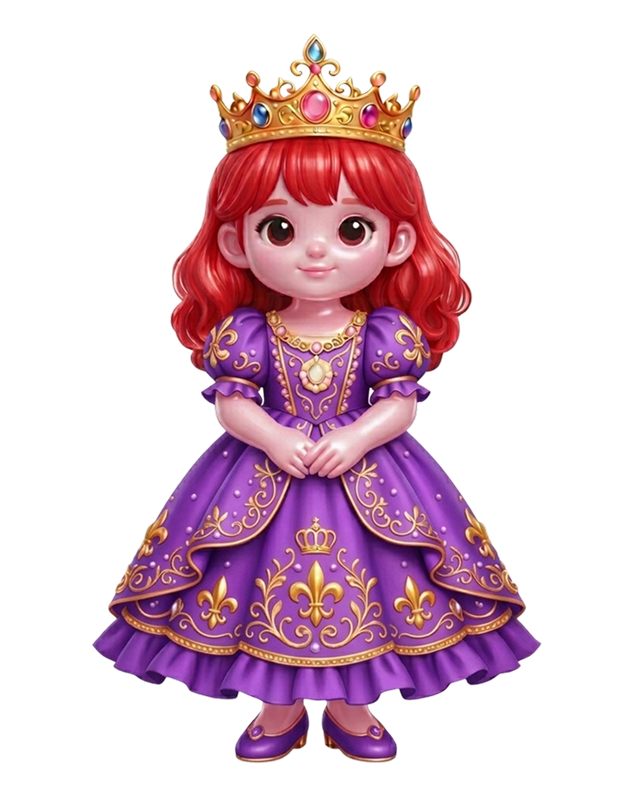
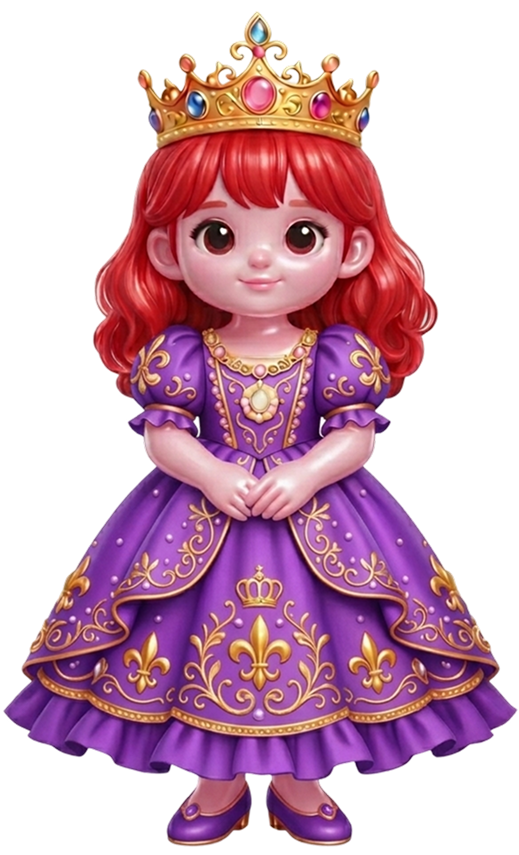
character images updated and sizes in ui updated

diff --git a/lib/features/parent/dashboard/presentation/widgets/children_row_widget.dart b/lib/features/parent/dashboard/presentation/widgets/children_row_widget.dart
@@ -25,8 +25,10 @@ class ChildrenRow extends StatelessWidget {
     final double selectedLeft = (w - selectedSize) / 2;
 
     final renderOrder = [
-      ...List.generate(children.length, (i) => i)
-          .where((i) => i != selectedIdx),
+      ...List.generate(
+        children.length,
+        (i) => i,
+      ).where((i) => i != selectedIdx),
       selectedIdx,
     ];
 
@@ -43,22 +45,38 @@ class ChildrenRow extends StatelessWidget {
           double left;
           double top;
           double size;
+          bool _isDragon(String path) => path.contains('baby_dragon');
 
           if (isSelected) {
-            left = selectedLeft;
-            top = 0;
-            size = selectedSize;
+            size = _isDragon(child.imagePath)
+                ? selectedSize * 0.62
+                : selectedSize;
+            top = _isDragon(child.imagePath) ? (selectedSize - size) / 2 : 0;
+            left = _isDragon(child.imagePath)
+                ? selectedLeft + (selectedSize - size) / 2
+                : selectedLeft;
           } else {
-            size = unselectedSize;
+            size = _isDragon(child.imagePath)
+                ? unselectedSize * 0.62
+                : unselectedSize;
             final double step = unselectedSize * 0.35;
             if (diff < 0) {
-              left = selectedLeft + (diff * step);
+              left =
+                  selectedLeft +
+                  (diff * step) -
+                  (_isDragon(child.imagePath) ? -30 : 20);
             } else {
-              left = selectedLeft + selectedSize - unselectedSize + (diff * step);
+              left =
+                  selectedLeft +
+                  selectedSize -
+                  unselectedSize +
+                  (diff * step) +
+                  (_isDragon(child.imagePath) ? 40 : 10);
             }
-            top = selectedSize - unselectedSize;
+            top = _isDragon(child.imagePath)
+                ? selectedSize - unselectedSize * 0.9
+                : selectedSize - unselectedSize;
           }
-
           return AnimatedPositioned(
             key: ValueKey('child_$index'),
             duration: const Duration(milliseconds: 300),
@@ -82,10 +100,7 @@ class ChildrenRow extends StatelessWidget {
                 child: AnimatedOpacity(
                   duration: const Duration(milliseconds: 250),
                   opacity: isSelected ? 1.0 : 0.45,
-                  child: Image.asset(
-                    child.imagePath,
-                    fit: BoxFit.contain,
-                  ),
+                  child: Image.asset(child.imagePath, fit: BoxFit.contain),
                 ),
               ),
             ),

diff --git a/lib/features/auth/bloc/auth_states.dart b/lib/features/auth/bloc/auth_states.dart
@@ -6,21 +6,25 @@ const List<CharacterModel> kDefaultCharacters = [
     name: 'The Curious\nPrince Explorer',
     speciality: 'Brave and\nadventurous',
     imagePath: 'assets/png/prince_character.png',
+    avatarImage: 'assets/png/prince_avatar.png'
   ),
   CharacterModel(
     name: 'The Kind\nPrincess',
     speciality: 'Kind and\nthoughtful',
     imagePath: 'assets/png/princes_character.png',
+    avatarImage: 'assets/png/princess_avatar.png'
   ),
   CharacterModel(
     name: 'The Brave\nKnight',
     speciality: 'Strong and\ncourageous',
     imagePath: 'assets/png/knight_character.png',
+    avatarImage: 'assets/png/knight_avatar.png'
   ),
   CharacterModel(
     name: 'The Friendly\nDragon',
     speciality: 'Playful and\nnaughty',
     imagePath: 'assets/png/baby_dragon_character.png',
+    avatarImage: 'assets/png/baby_dragon_avatar.png'
   ),
 ];
 

diff --git a/lib/features/auth/presentation/widgets/characters_row_widget.dart b/lib/features/auth/presentation/widgets/characters_row_widget.dart
@@ -22,9 +22,9 @@ class CharactersRowWidget extends StatelessWidget {
     if (characters.isEmpty) return const SizedBox();
 
     final double w = availableWidth;
-    final double selectedSize = w * 1;
-    final double unselectedSize = w * 0.85;
-    final double totalHeight = selectedSize*0.92;
+    final double selectedSize = w * 0.8;
+    final double unselectedSize = w * 0.7;
+    final double totalHeight = selectedSize*0.9;
     final double selectedLeft = (w - selectedSize) / 2;
 
     final renderOrder = [
@@ -102,7 +102,7 @@ class CharactersRowWidget extends StatelessWidget {
             }).toList(),
           ),
         ),
-        const SizedBox(height: 16),
+        const SizedBox(height: 40),
         AnimatedSwitcher(
           duration: const Duration(milliseconds: 250),
           child: HeadingText(

diff --git a/lib/features/auth/presentation/views/kingdom_ready/kingdon_is_ready_view.dart b/lib/features/auth/presentation/views/kingdom_ready/kingdon_is_ready_view.dart
@@ -83,16 +83,18 @@ class KingdonIsReadyView extends StatelessWidget {
 
                 BlocBuilder<AuthBloc, AuthStates>(
                   builder: (context, state) {
+                    final imageHeight = state.selectedCharacter.imagePath == 'assets/png/baby_dragon_character.png'? 150.0 : 240.0;
                     return Align(
                       alignment: Alignment.bottomCenter,
                       child: Image.asset(
-                        height: 260,
+                        height: imageHeight,
                         state.selectedCharacter.imagePath,
                         fit: BoxFit.contain,
                       ),
                     );
                   }
                 ),
+                SizedBox(height: 20)
               ],
             ),
           ),

diff --git a/lib/features/auth/presentation/views/who_are_you/who_are_you_view.dart b/lib/features/auth/presentation/views/who_are_you/who_are_you_view.dart
@@ -41,8 +41,7 @@ class WhoAreYouView extends StatelessWidget {
                     },
                     child: Image.asset(
                       "assets/png/parent_boy.png",
-                      height: screenHeight * 0.58,
-                      width: screenWidth * 0.65,
+                      height: screenHeight * 0.68,
                     ),
                   ),
 
@@ -51,7 +50,6 @@ class WhoAreYouView extends StatelessWidget {
                       child: Image.asset(
                         "assets/png/prince_character.png",
                         height: screenHeight * 0.48,
-                        width: screenWidth * 0.45,
                     ),
                   )
                 ],

diff --git a/lib/features/auth/presentation/views/create_your_child_profile/create_your_child_profile_view.dart b/lib/features/auth/presentation/views/create_your_child_profile/create_your_child_profile_view.dart
@@ -69,7 +69,7 @@ class CreateYourChildProfileView extends StatelessWidget {
                           return Column(
                             children: [
                               AvatarWidget(
-                                avatar: state.selectedCharacter.imagePath,
+                                avatar: state.selectedCharacter.avatarImage,
                               ),
                               const SizedBox(height: 15),
                               Center(

diff --git a/lib/features/auth/presentation/widgets/avatar_widget.dart b/lib/features/auth/presentation/widgets/avatar_widget.dart
@@ -31,7 +31,7 @@ class AvatarWidget extends StatelessWidget {
             children: [
               Image.asset(
                 avatar,
-                fit: BoxFit.scaleDown,
+                fit: BoxFit.cover,
               ),
               DecoratedBox(
                 decoration: BoxDecoration(

diff --git a/lib/features/auth/data/models/character_model.dart b/lib/features/auth/data/models/character_model.dart
@@ -3,10 +3,12 @@ class CharacterModel {
   final String name;
   final String speciality;
   final String imagePath;
+  final String avatarImage;
 
   const CharacterModel({
     required this.name,
     required this.speciality,
     required this.imagePath,
+    required this.avatarImage
   });
 }
